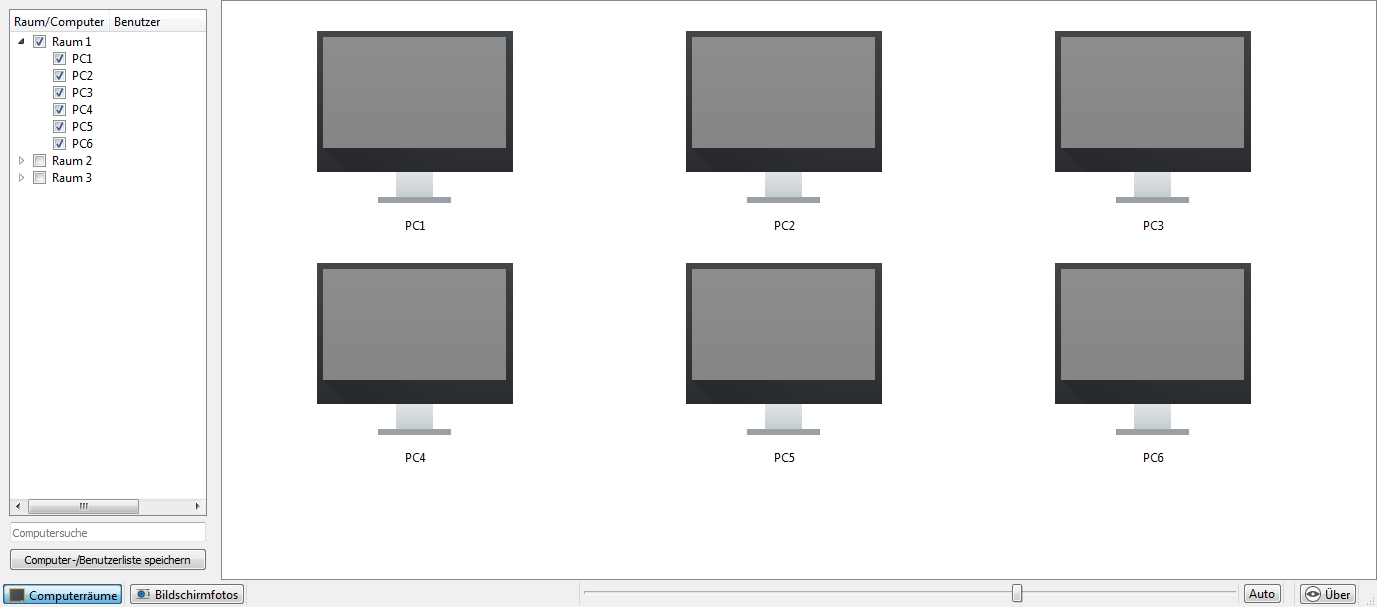
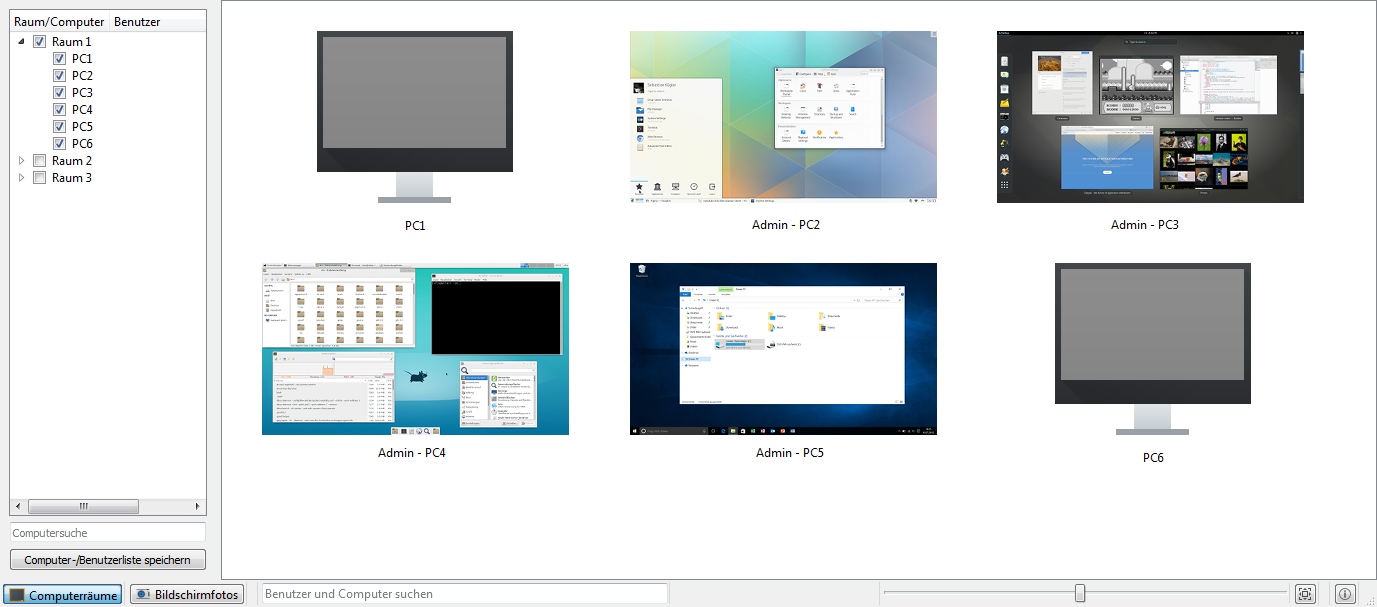
introduction: updated screenshots and docs on statusbar

diff --git a/de/user/introduction.rst b/de/user/introduction.rst
@@ -31,7 +31,19 @@ Die Werkzeugleiste beinhaltet eine Reihe an Schaltflächen zur Aktivierung von v
 
 In der Arbeitsfläche werden alle zu beobachtenden Computer in einer :index:`Kachelansicht` dargestellt. Abhängig von der Systemkonfiguration und von vorherigen Programmstarts sehen Sie hier bereits die Computer des aktuellen Raums. Über die Computerraumverwaltung_ können Sie Computer oder ganze Computerräume ein- oder ausblenden.
 
-Die Elemente in der Statusleiste dienen der Steuerung der Programmoberfläche. So können Sie Ansichten wie die Computerraumverwaltung_ oder Bildschirmfotoverwaltung_ aktivieren. Über den Schieberegler können Sie die Größe der angezeigten Computerbildschirme steuern. Eine automatische Anpassung auf eine optimale Größe erfolgt bei der Betätigung der Schaltfläche :guilabel:`Auto`. Die Schaltfläche :guilabel:`Über` öffnet einen Dialog mit Informationen über das Programm wie z. B. Version, Hersteller und Lizenzbestimmungen.
+Die Elemente in der Statusleiste dienen der Steuerung der Programmoberfläche. So können Sie Ansichten wie die Computerraumverwaltung_ oder Bildschirmfotoverwaltung_ aktivieren. Über den Schieberegler können Sie die Größe der angezeigten Computerbildschirme steuern.
+
+Eine automatische Anpassung auf eine optimale Größe erfolgt bei der Betätigung links daneben befindlichen Schaltfläche |zoom-fit-best| (:guilabel:`Optimale Größe einstellen`).
+
+Die Schaltfläche |help-about| (:guilabel:`Über`) öffnet einen Dialog mit Informationen über das Programm wie z. B. Version, Hersteller und Lizenzbestimmungen.
+
+.. |zoom-fit-best| image:: images/zoom-fit-best.png
+  :scale: 20%
+  :align: middle
+
+.. |help-about| image:: images/help-about.png
+  :scale: 20%
+  :align: middle
 
 .. _Werkzeugleiste:
 
